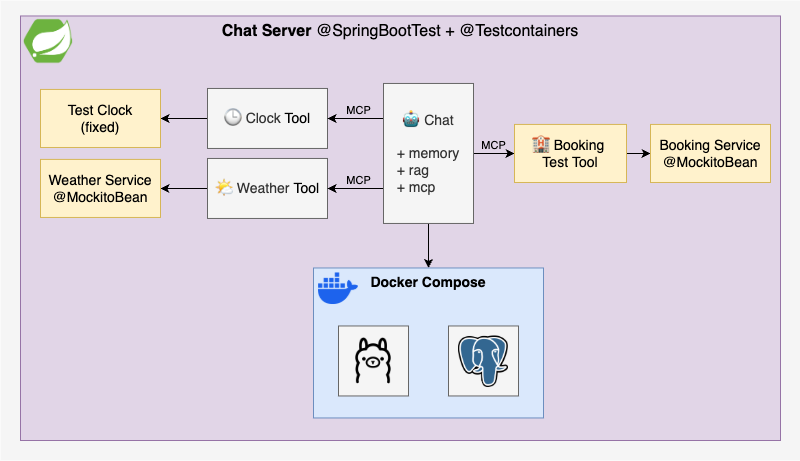
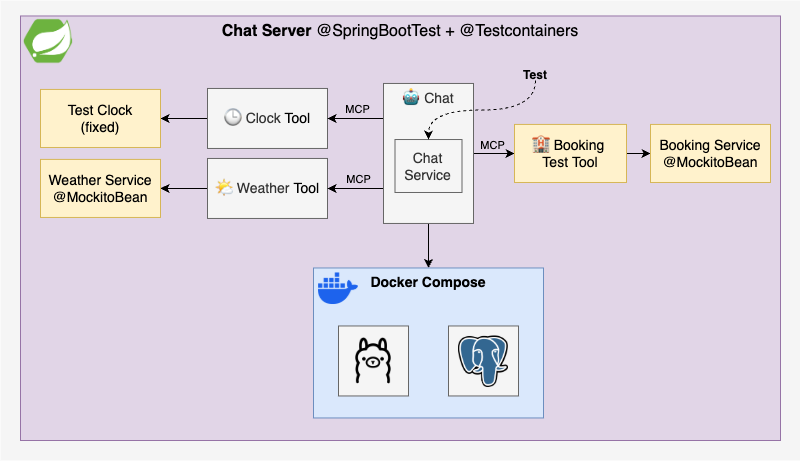
More tools

diff --git a/README.md b/README.md
@@ -87,26 +87,26 @@ The **Chat Server** is a Spring Boot application built with the following depend
 #### Components
 
 * **MCP Tools**
-  * **WeatherTool** - a local MCP tool that queries a **WeatherService** for the weather in a given city on a given date
-  * **ClockTool** - a local MCP tool that returns the system date, letting us control the date the AI agent uses to avoid unpredictability
-  * **BookingTool** - a remote MCP tool that connects to the Booking MCP Server to reserve accommodations
+  * **Weather Tool** - a local MCP tool that queries a **WeatherService** for the weather in a given city on a given date
+  * **Clock Tool** - a local MCP tool that returns the system date, letting us control the date the AI agent uses to avoid unpredictability
+  * **Booking Tool** - a remote MCP tool that connects to the Booking MCP Server to reserve accommodations
 * **Chat**
-  * **ChatClient** - a **Spring AI** ChatClient configured with:
+  * **Chat Client** - a **Spring AI** ChatClient configured with:
     * A system prompt to define the AI agent’s role
     * The Ollama model autoconfigured by Spring Boot
     * The above MCP tools as part of the AI agent’s toolset
-  * **ChatService** - wraps the **ChatClient** and adds three advisors:
+  * **Chat Service** - wraps the **ChatClient** and adds three advisors:
     * **QuestionAnswerAdvisor** - fetches context from a vector store and augments the user input (RAG)
     * **PromptChatMemoryAdvisor** - adds conversation history to the user input (chat memory)
     * **SimpleLoggerAdvisor** - logs the chat history to the console (for debugging)
-  * **ChatController** - exposes a simple REST POST endpoint that takes user input, calls the **ChatService**, and returns the AI agent’s response
+  * **Chat Controller** - exposes a simple REST POST endpoint that takes user input, calls the **ChatService**, and returns the AI agent’s response
 * **Vector Store Initializer** - loads some sample data into the vector store at startup
 
 Let's implement this step by step ...
 
 #### Weather and Clock Tools
 
-Here's how the **WeatherTool** is implemented (the same applies to **ClockTool**):
+Here's how the **Weather Tool** is implemented (the same applies to **Clock Tool**):
 
 1. Create an instance and annotate it with `@Tool` and `@ToolParam`:
 ```kotlin
@@ -133,7 +133,7 @@ class WeatherToolConfiguration {
 
 #### Booking Tool
 
-To set up the **BookingTool** as a remote MCP tool, we just need to configure the MCP client [SSE connection](https://docs.spring.io/spring-ai/reference/api/mcp/mcp-client-boot-starter-docs.html#_sse_transport_properties)  in `application.yml`:
+To set up the **Booking Tool** as a remote MCP tool, we just need to configure the MCP client [SSE connection](https://docs.spring.io/spring-ai/reference/api/mcp/mcp-client-boot-starter-docs.html#_sse_transport_properties)  in `application.yml`:
 
 ```yaml
 spring:
@@ -256,7 +256,7 @@ In the main `application.yml` file, we define global configuration values:
 * Set the active Spring profile to `ollama`, allowing us to configure specific properties for the Ollama model in the `application-ollama.yml` file.
 * Configure the datasource to connect to a PostgreSQL database with PGVector support.
 * Set the server port to `8080`.
-* Configure the URL of the remote **BookingTool** MCP server.
+* Configure the URL of the remote **Booking Tool** MCP server.
 * Set the logging level for chat advisor debug traces.
 
 ```yaml
@@ -313,7 +313,7 @@ spring:
 
 ### MCP Server
 
-To test the **MCP Server**, we use a `McpClient` to call the `book` method of the **BookingTool**, mocking the downstream **BookingService**:
+To test the **MCP Server**, we will use a `McpClient` to call the `book` method of the **Booking Tool**, mocking the downstream **BookingService**:
 
 ![MCP Server Test](.doc/test-mcp-server.png)
 
@@ -380,7 +380,12 @@ class McpServerApplicationTest {
 
 ### Chat Server
 
+To test the **Chat Server**, we will:
+* Replace the remote **Booking Tool** by a local **Booking Test Tool** with the same signature.
+* Mock the downstream services **Weather Service** and **Booking Service**.
+* Use a fixed **Clock** to control the date.
 
+![Chat Server Test](.doc/test-chat-server.png)
 
 ## Run
 
